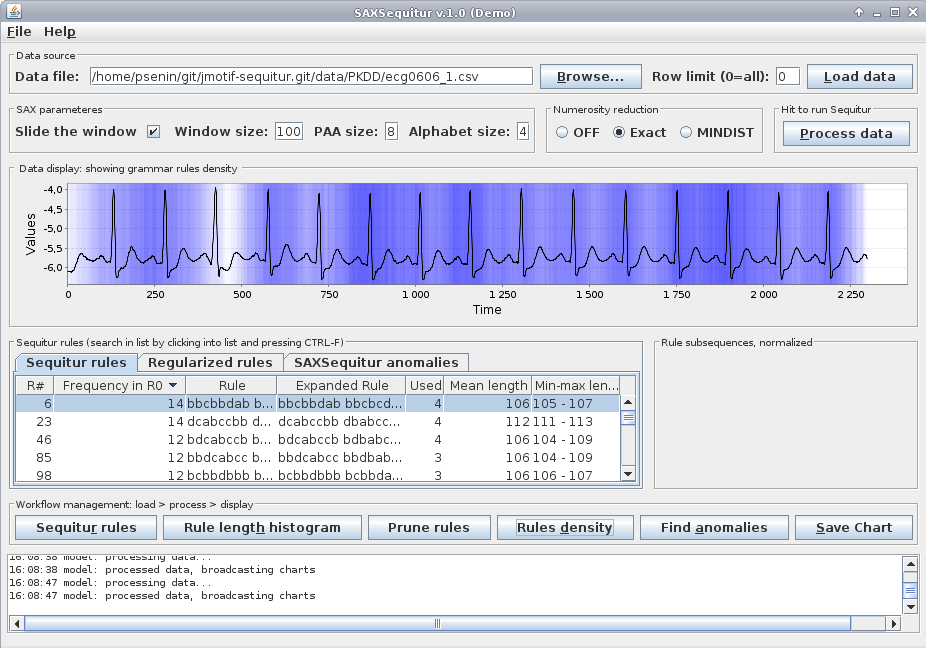
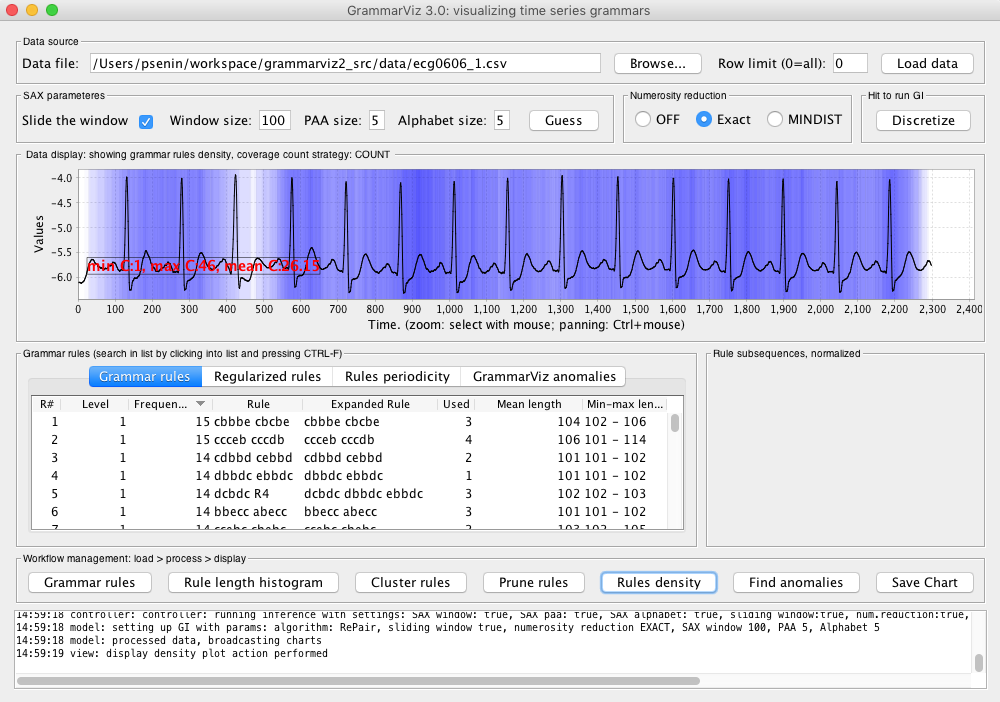
updating the anomaly figures

diff --git a/src/morea/anomaly/experience-a1.md b/src/morea/anomaly/experience-a1.md
@@ -11,7 +11,7 @@ morea_labels:
 
 ### Experiential Learning 1
 
-## Anomaly discovery with GrammarViz 2.0
+## Anomaly discovery with GrammarViz 3.0
 
 ### 1. Introduction
 In this module we discuss the anomaly detection in QTDB 0606 ECG dataset. This data set (database record) can be downloaded from [PHYSIONET FTP](http://physionet.org/physiobank/database/qtdb/) and converted into the text format by executing this command
@@ -40,8 +40,8 @@ Figure 13 of the paper further explains the nature of this true anomaly:
   </div>
 </div>
 
-## 2. Variable length anomaly discovery using GrammarViz 2.0
-Load the dataset, adjust SAX discretization parameters to sliding window 100, PAA 8, and alphabet 4. Click "Process data". Click "Find anomalies" button, select the GrammarViz anomalies tab and choose the top ranked anomaly (#0):
+## 2. Variable length *exact* anomaly discovery using GrammarViz 2.0
+Load the dataset using the "Load data" button, adjust SAX discretization parameters to sliding window 100, PAA 3, and alphabet 3. Click "Discretize" to infer a grammar describing the input time series. Click "Find anomalies" button to perform the anomaly discovery, then select the GrammarViz anomalies tab and choose the top ranked anomaly (#0):
 
 <div class="container">
   <div class="row">
@@ -51,11 +51,21 @@ Load the dataset, adjust SAX discretization parameters to sliding window 100, PA
   </div>
 </div>
 
-this highlights the grammar rule which coincides with the true anomaly. *Note that rule #28 is of length 123 while the next anomaly, the rule #30 is of length 109*
+this highlights the grammar rule which coincides with the true anomaly. *Note that rule #8 is of length 110 while the next anomaly, the rule #25 is of length 208*
 
 
-## 3. Variable length anomaly discovery using rules density
-Load the dataset, adjust SAX discretization parameters to sliding window 100, PAA 8, and alphabet 4. Click "Process data". Click on "Rules density" button:
+## 3. Variable length *approximate* anomaly discovery using rule density curve
+We use the same dataset. First, change the GI algorithm from Sequitur to RePair using GUI's menu: click on "Settings" -> chose "GI Implementation tab" -> and toggle "Re-Pair" algorithm to be used:
+
+<div class="container">
+  <div class="row">
+    <div class="col-sm-8">
+      <img style="margin-top: 5px; margin-bottom: 5px" src="../assets/demo-ecg0606_02.png" width="800px" class="img-responsive center-block">
+    </div>
+  </div>
+</div>
+
+Click "Save" button to update the parameters. Adjust SAX discretization parameters to sliding window 100, PAA 5, and alphabet 5. Click "Discretize" to infer a Re-Pair grammar describing the input time series. Then click on "Rules density" button:
 
 <div class="container">
   <div class="row">
@@ -65,7 +75,7 @@ Load the dataset, adjust SAX discretization parameters to sliding window 100, PA
   </div>
 </div>
 
-The light blue color near position 490 clearly identifies the true anomaly.
+The light blue/white color near position 480 clearly identifies the true anomaly.
 
 
 ## 4. Discussion
